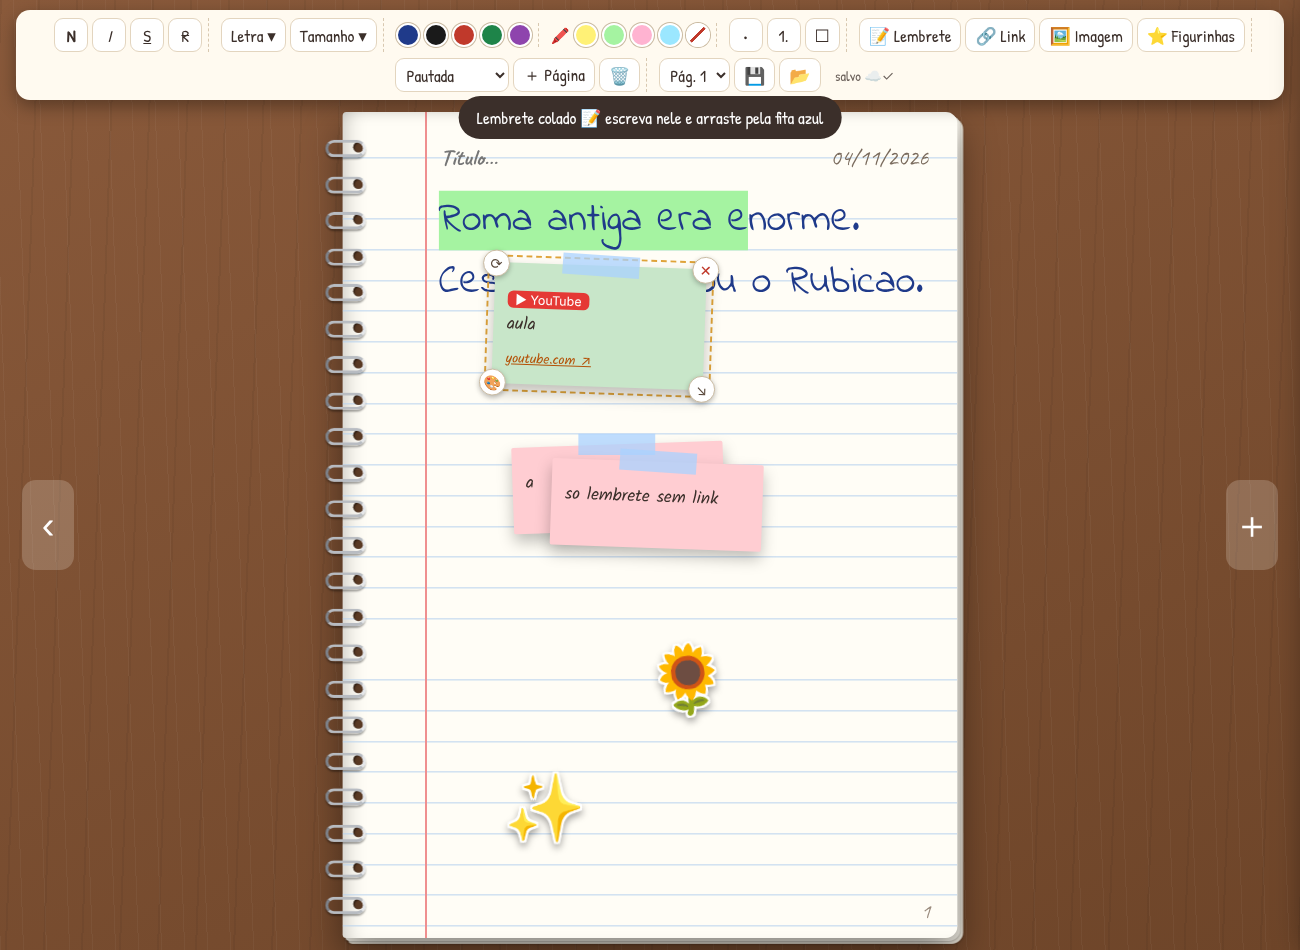
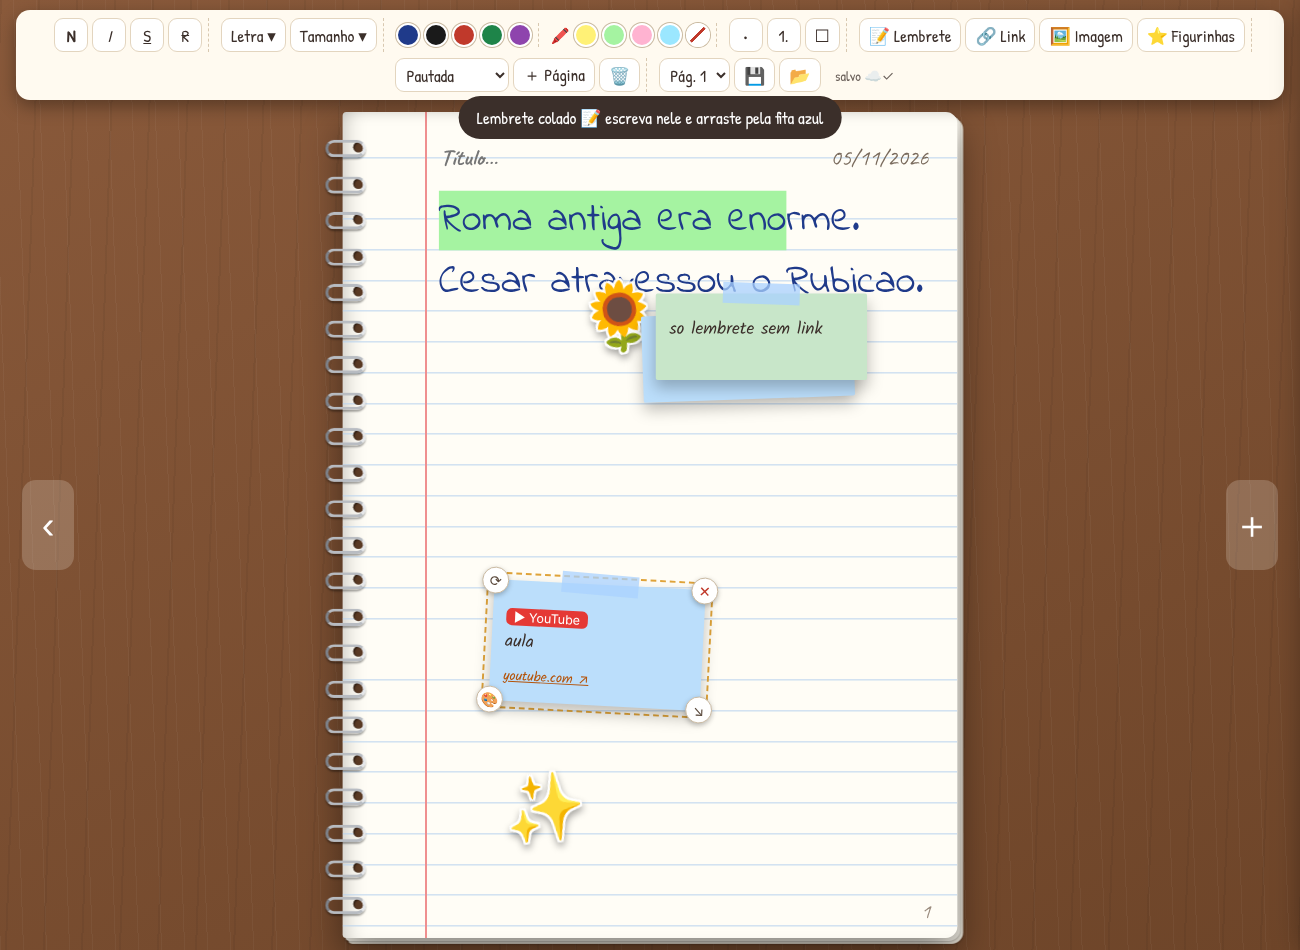
Caderno: live sync between devices and stop stale devices overwriting pages
Claude-Session: https://claude.ai/code/session_019Hnua8TmqfQ3trwJFtF5V5

Changed region(s): [[0.3692, 0.1832, 0.6769, 0.7632], [0.4, 0.7937, 0.4615, 0.8853]]

diff --git a/caderno/meu-caderno.html b/caderno/meu-caderno.html
@@ -463,9 +463,10 @@ let state = {
 };
 
 let saveTimer = null;
-function save() {
+function save(touch = true) {
+  // touch = houve edição de verdade nesta página (virar a folha NÃO conta)
   const p = curPage();
-  if (p) p.u = Date.now();
+  if (p && touch) p.u = Date.now();
   state.updatedAt = Date.now();
   $('#status').textContent = 'salvando…';
   clearTimeout(saveTimer);
@@ -953,8 +954,7 @@ function goTo(idx) {
     setTimeout(() => { state.current = idx; render(); f.remove(); animating = false; }, dur);
   }
   playFlipSound();
-  state.updatedAt = Date.now();
-  save();
+  save(false);
 }
 let actx = null;
 function playFlipSound() {
@@ -1133,6 +1133,11 @@ document.addEventListener('keydown', e => {
   }
 });
 document.addEventListener('pointerdown', e => { if (!e.target.closest('.item')) selectItem(null); });
+document.addEventListener('focusout', () => setTimeout(() => {
+  if (Cloud.pendingRender && !(document.activeElement && document.activeElement.closest && document.activeElement.closest('#view'))) {
+    Cloud.pendingRender = false; render();
+  }
+}, 50));
 
 /* ---------- cópia de segurança ---------- */
 $('#exportBtn').onclick = async () => {
@@ -1179,15 +1184,19 @@ const Cloud = {
     return { title: s.title, subtitle: s.subtitle, coverColor: s.coverColor, order: s.pages.map(p => p.id),
       current: s.current, updatedAt: s.updatedAt || 0, deleted: (s.deleted || []).slice(-500) };
   },
+  offline() {
+    $('#status').textContent = DB.db ? 'salvo ✓ (só aqui)' : '⚠ não está salvando';
+    if (!DB.db) toast('Atenção: este navegador não está guardando o caderno. Use o 💾 para salvar uma cópia.', 8000);
+  },
   async start(hasLocal) {
     if (!window.claude || !window.claude.use) return;
     try {
       const [db, user, assets, downloads] = await Promise.all([
         claude.use('db'), claude.use('user'), claude.use('assets'), claude.use('downloads')]);
       this.assets = assets; this.downloads = downloads;
-      if (!db || !user) { $('#status').textContent = 'salvo ✓ (só aqui)'; return; }
+      if (!db || !user) { this.offline(); return; }
       this.uid = await user.id();
-      if (!this.uid) { $('#status').textContent = 'salvo ✓ (só aqui)'; return; }
+      if (!this.uid) { this.offline(); return; }
       this.db = db;
       $('#status').textContent = 'abrindo…';
       const snap = await Promise.race([this.col().get(), new Promise((_, rej) => setTimeout(() => rej(new Error('timeout')), 12000))]);
@@ -1196,6 +1205,7 @@ const Cloud = {
       this.merge(docs);
       Object.entries(docs).forEach(([k, v]) => this.synced[k] = JSON.stringify(v));
       this.ready = true;
+      this.listen();
       this.schedule(0);
     } catch (e) {
       console.warn('Nuvem indisponível', e);
@@ -1239,6 +1249,64 @@ const Cloud = {
       render();
       DB.set('state', state).catch(() => {});
     }
+  },
+  /* ouve a nuvem o tempo todo: o que você escreve num aparelho aparece no outro */
+  listen() {
+    this.unsub = this.col().onSnapshot(snap => {
+      let changed = false, currentChanged = false;
+      for (const ch of snap.docChanges()) {
+        if (ch.type === 'removed') continue;
+        const k = ch.doc.id, v = ch.doc.data(), j = JSON.stringify(v);
+        if (this.synced[k] === j) continue; // é o eco do que este aparelho mesmo salvou
+        this.synced[k] = j;
+        if (k.startsWith('i_')) {
+          this.imgCache[k] = v.src;
+          state.pages.forEach(p => p.items.forEach(it => { if (it.src === 'ref:' + k) { it.src = v.src; changed = true; } }));
+        } else if (k.startsWith('p_')) {
+          const id = k.slice(2);
+          if ((state.deleted || []).includes(id)) continue;
+          const page = JSON.parse(j);
+          page.items = (page.items || []).map(it => (it.type === 'img' && it.src && it.src.startsWith('ref:') && this.imgCache[it.src.slice(4)]) ? { ...it, src: this.imgCache[it.src.slice(4)] } : it);
+          const i = state.pages.findIndex(p => p.id === id);
+          if (i < 0) { state.pages.push(page); changed = true; }
+          else if ((page.u || 0) > (state.pages[i].u || 0)) {
+            state.pages[i] = page; changed = true;
+            if (i === state.current) currentChanged = true;
+          }
+        } else if (k === 'meta') {
+          const del = new Set([...(state.deleted || []), ...(v.deleted || [])]);
+          state.deleted = [...del];
+          const before = state.pages.length;
+          const curId = curPage() && curPage().id;
+          state.pages = state.pages.filter(p => !del.has(p.id));
+          // segue a ordem da nuvem; páginas que só existem aqui vão para o fim
+          const order = v.order || [];
+          state.pages.sort((a, b) => {
+            const ia = order.indexOf(a.id), ib = order.indexOf(b.id);
+            return (ia < 0 ? 1e9 : ia) - (ib < 0 ? 1e9 : ib);
+          });
+          if (!state.pages.length) state.pages.push(newPage());
+          if (curId) { const ni = state.pages.findIndex(p => p.id === curId); state.current = ni >= 0 ? ni : Math.min(state.current, state.pages.length - 1); }
+          if ((v.updatedAt || 0) > (state.updatedAt || 0)) { state.title = v.title; state.subtitle = v.subtitle; state.coverColor = v.coverColor; }
+          changed = true;
+          if (before !== state.pages.length || state.current < 0) currentChanged = true;
+        }
+      }
+      if (!changed) return;
+      DB.set('state', state).catch(() => {});
+      refreshJump();
+      if (currentChanged || state.current < 0) this.refreshView();
+      $('#status').textContent = 'atualizado ☁✓';
+    }, err => {
+      console.warn(err);
+      $('#status').textContent = 'sem conexão — salvo aqui';
+    });
+  },
+  /* redesenha a folha sem atrapalhar quem está digitando nela */
+  refreshView() {
+    const editing = document.activeElement && document.activeElement.closest && document.activeElement.closest('#view');
+    if (!editing || animating) { if (!animating) render(); return; }
+    this.pendingRender = true;
   },
   schedule(ms = 1500) {
     if (!this.ready) return;
